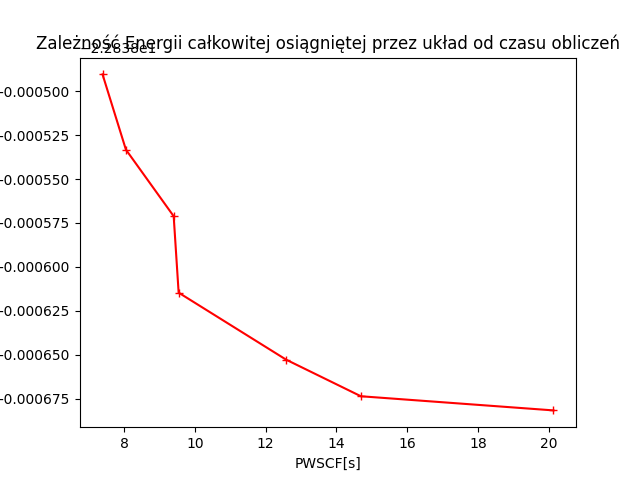
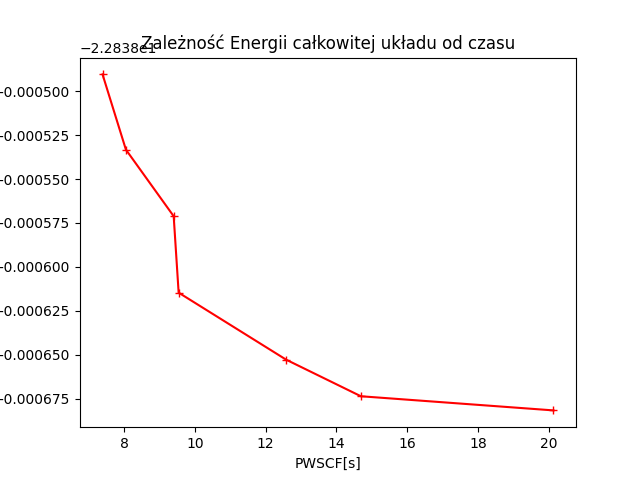
plot2

Changed region(s): [[0.0625, 0.0625, 0.9688, 0.125]]

diff --git a/sk1.py b/sk1.py
@@ -17,7 +17,7 @@ plt.plot(time, energy, 'r-+')
 plt.xlabel('PWSCF[s]')
 plt.ylabel('energia całkowita [Ry]')
 plt.yscale('linear')
-plt.title('Zależność Energii całkowitej osiągniętej przez układ od czasu obliczeń')
+plt.title('Zależność Energii całkowitej układu od czasu')
 plt.savefig('skrypt1')
 
 print(time)
